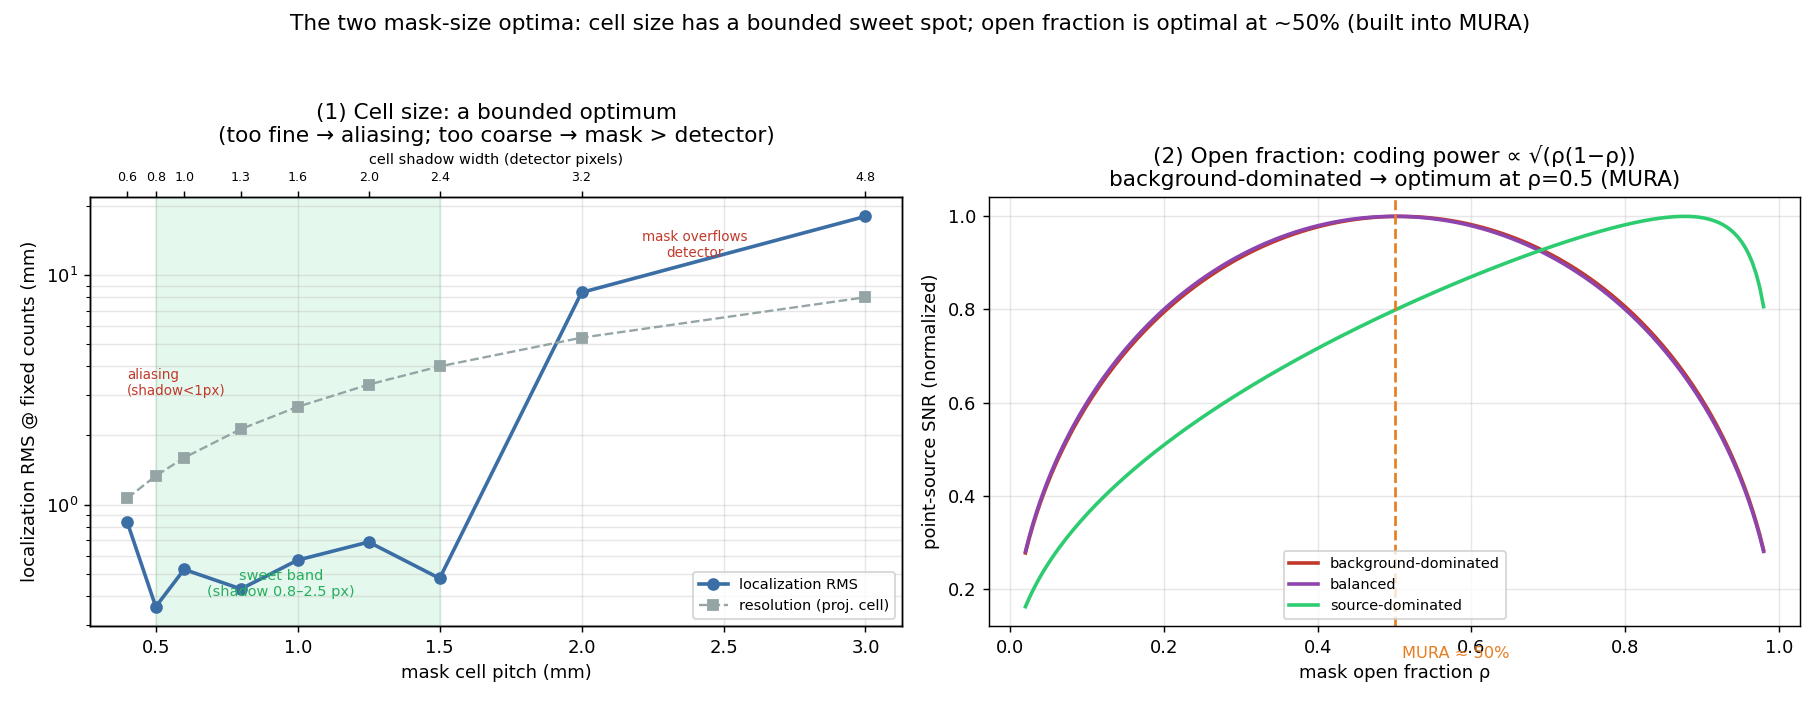
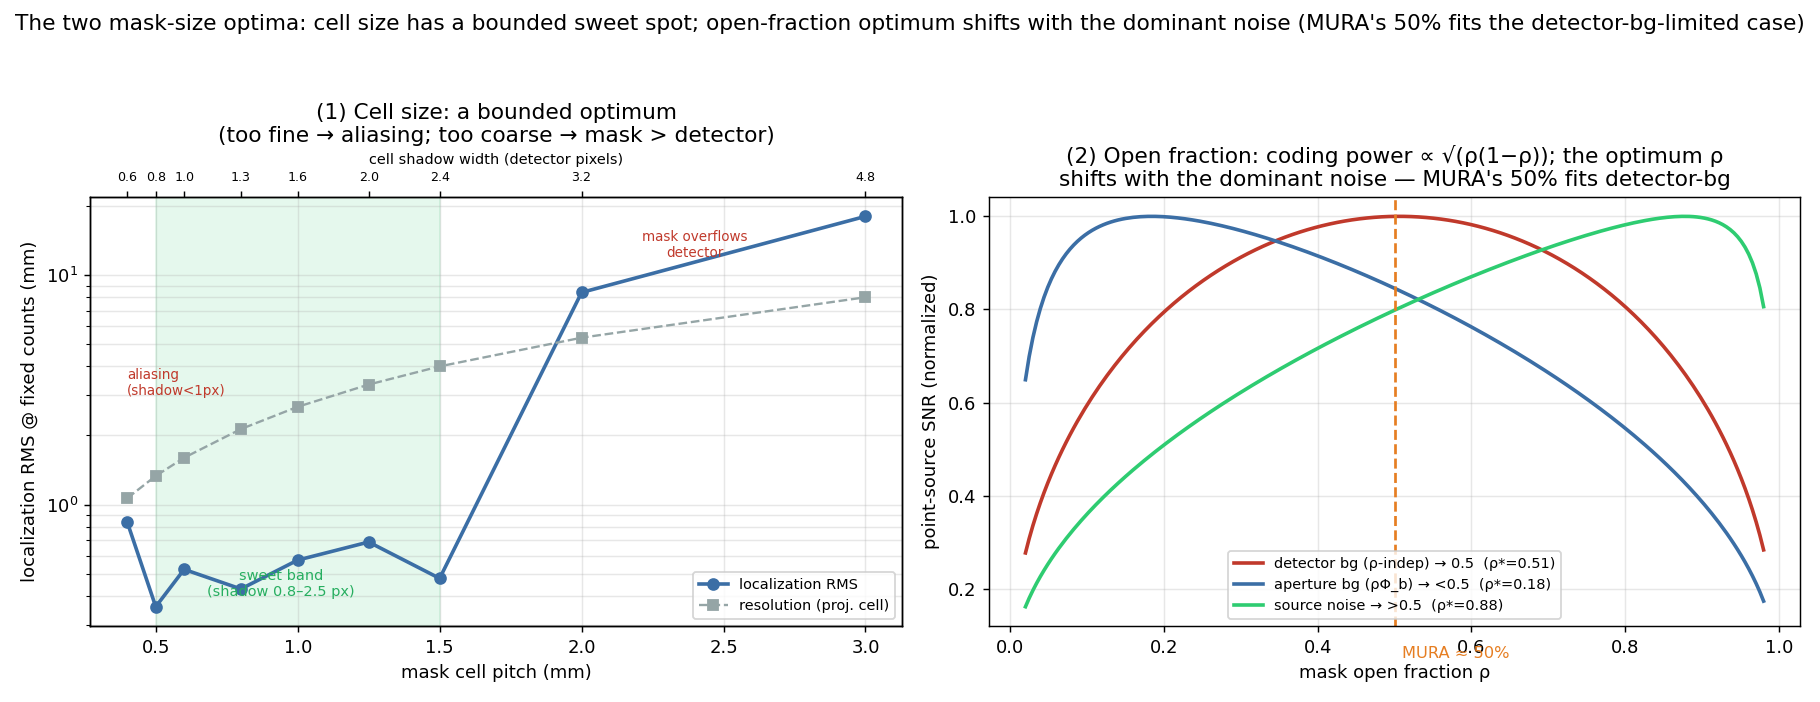
Apply Codex cross-verification fixes (depth + mask geometry)
No fatal errors; core physics verified (M=(D+S)/S & frac=D/(D+S); focused
remap scale = f/(f+PlaneZ-z); cell-size optimum). Refinements:

Depth (themes 18-19): CentroidEstimate failure fallback returns the scan
midpoint, not rows[0] (which fabricated a confident near value); softened the
focus-metric claims (raw cyclic correlation is stair-stepped, argmax biased,
centroid is a heuristic); noted the decoder scores a thin mask plane so depth
results are for the straight/full-hole/thin mask; dM/dS is a scaling intuition;
flagged the joint iteration has no convergence/multi-start guard.

Mask geometry (themes 20-21): guard focal <= thickness -> straight (denominator
blow-up); documented HoleFraction as LINEAR (open area = hf^2); softened
"strictly counterproductive" to "for this MURA/full-cell decoder"; corrected the
open-fraction optimum -- rho=0.5 only in the detector-background regime, aperture
background pushes it below 0.5 and source noise above (plot now shows all three).

24 tests green.

Claude-Session: https://claude.ai/code/session_01JzXSNQYoWEuh1nUS9rXAso

diff --git a/samples/plot_masksize.py b/samples/plot_masksize.py
@@ -40,19 +40,22 @@ axt.set_xlabel("cell shadow width (detector pixels)", fontsize=8)
 # SNR(rho) = Phi_s * sqrt(rho(1-rho)) / sqrt((1-rho)Phi_s + rho*Phi_b + B_det)
 rho = np.linspace(0.02, 0.98, 200)
 Phi_s = 1.0
-for label, Phi_b, B_det, col in [("background-dominated", 0.0, 20.0, "#c0392b"),
-                                 ("balanced", 1.0, 1.0, "#8e44ad"),
-                                 ("source-dominated", 0.0, 0.02, "#2ecc71")]:
+# SNR = Phi_s*sqrt(rho(1-rho)) / sqrt((1-rho)Phi_s + rho*Phi_b + B_det); the optimum rho depends
+# on which denominator term dominates: detector bg -> 0.5, aperture bg -> <0.5, source noise -> >0.5.
+for label, Phi_b, B_det, col in [("detector bg (ρ-indep) → 0.5", 0.0, 20.0, "#c0392b"),
+                                 ("aperture bg (ρΦ_b) → <0.5", 20.0, 0.02, "#3b6ea5"),
+                                 ("source noise → >0.5", 0.0, 0.02, "#2ecc71")]:
     snr = Phi_s * np.sqrt(rho * (1 - rho)) / np.sqrt((1 - rho) * Phi_s + rho * Phi_b + B_det)
-    ax2.plot(rho, snr / snr.max(), "-", color=col, lw=2, label=label)
+    rho_opt = rho[np.argmax(snr)]
+    ax2.plot(rho, snr / snr.max(), "-", color=col, lw=2, label=f"{label}  (ρ*={rho_opt:.2f})")
 ax2.axvline(0.5, ls="--", color="#e67e22", lw=1.5); ax2.text(0.51, 0.05, "MURA ≈ 50%", color="#e67e22", fontsize=9)
 ax2.set_xlabel("mask open fraction ρ")
 ax2.set_ylabel("point-source SNR (normalized)")
-ax2.set_title("(2) Open fraction: coding power ∝ √(ρ(1−ρ))\nbackground-dominated → optimum at ρ=0.5 (MURA)")
+ax2.set_title("(2) Open fraction: coding power ∝ √(ρ(1−ρ)); the optimum ρ\nshifts with the dominant noise — MURA's 50% fits detector-bg")
 ax2.legend(fontsize=8); ax2.grid(alpha=0.3)
 
-fig.suptitle("The two mask-size optima: cell size has a bounded sweet spot; "
-             "open fraction is optimal at ~50% (built into MURA)", fontsize=12)
+fig.suptitle("The two mask-size optima: cell size has a bounded sweet spot; open-fraction optimum "
+             "shifts with the dominant noise (MURA's 50% fits the detector-bg-limited case)", fontsize=12)
 fig.tight_layout(rect=[0, 0, 1, 0.95])
 fig.savefig(os.path.join(here, "masksize.png"), dpi=130)
 print("saved samples/masksize.png")

diff --git a/src/Genoray.MonteCarlo.Masks/CodedApertureMask.cs b/src/Genoray.MonteCarlo.Masks/CodedApertureMask.cs
@@ -15,7 +15,7 @@ public sealed class CodedApertureMask : IMask
     private readonly double _halfWidth;   // physical half-extent along x (mm)
     private readonly double _halfHeight;  // physical half-extent along y (mm)
     private readonly double _focalMm;     // channels converge toward a source at this distance (0 = straight)
-    private readonly double _holeFraction;// open fraction of a cell (1 = full cell; <1 = tungsten border)
+    private readonly double _holeFraction;// LINEAR open fraction of a cell (open AREA = _holeFraction²)
 
     public MaskPattern Pattern { get; }
     public double PlaneZ { get; }
@@ -31,7 +31,10 @@ public sealed class CodedApertureMask : IMask
         _muPerMm = muPerMm;
         _halfWidth = pattern.Width * cellPitchMm / 2.0;
         _halfHeight = pattern.Height * cellPitchMm / 2.0;
-        _focalMm = focalDistanceMm;
+        // Focused channels need the focal point outside the slab; focal <= thickness would make the
+        // per-depth remap denominator (focal + PlaneZ - z) hit zero/flip sign inside the slab. Reject
+        // that unphysical geometry by falling back to straight channels.
+        _focalMm = focalDistanceMm > thicknessMm ? focalDistanceMm : 0.0;
         _holeFraction = holeFraction <= 0.0 ? 1.0 : Math.Min(holeFraction, 1.0);
     }
 

diff --git a/src/Genoray.MonteCarlo.Configuration/SimulationConfig.cs b/src/Genoray.MonteCarlo.Configuration/SimulationConfig.cs
@@ -108,8 +108,9 @@ public sealed class MaskConfig
     /// 0 = straight (parallel) channels.</summary>
     public double FocalDistanceMm { get; set; } = 0.0;
 
-    /// <summary>Open fraction of a cell (1 = full cell open; &lt;1 leaves a tungsten border that
-    /// sharpens the shadow but lowers sensitivity).</summary>
+    /// <summary>LINEAR open fraction of a cell — the fraction of the cell's WIDTH that is drilled
+    /// (so the open AREA is HoleFraction²; e.g. 0.5 → central 25% of the cell is open). 1 = full cell
+    /// open; &lt;1 leaves a tungsten border that lowers sensitivity.</summary>
     public double HoleFraction { get; set; } = 1.0;
 }
 

diff --git a/src/Genoray.MonteCarlo.Simulation/DepthStudy.cs b/src/Genoray.MonteCarlo.Simulation/DepthStudy.cs
@@ -187,7 +187,9 @@ public sealed class DepthStudy
             double w = r.Focus - thr;
             if (w > 0.0) { num += r.AssumedSmm * w; den += w; }
         }
-        return den > 0.0 ? num / den : rows[0].AssumedSmm;
+        // Failure fallback (a flat/failed focus curve): return the scan midpoint (a neutral
+        // "no depth information" answer), NOT rows[0], which would fabricate a confident near value.
+        return den > 0.0 ? num / den : 0.5 * (rows[0].AssumedSmm + rows[^1].AssumedSmm);
     }
 
     public static string ToCsv(DepthResult[] results)

diff --git a/AGENTS.findings.md b/AGENTS.findings.md
@@ -292,17 +292,23 @@ contamination *where it actually landed*. Run: `montecarlo compton-strip samples
 The pipeline had assumed the source distance S known; it can be *recovered*. The mask-shadow
 magnification **M = (D+S)/S** depends on S, and the decoder back-projects with `frac = D/(D+S)`.
 Decoding one flood map at a range of ASSUMED S, the correlation at the (on-axis) source position is
-maximal when the assumed S matches the true S — the coding and decoding align — and falls off
-otherwise. So argmax over assumed S estimates the depth (light-field-style refocusing).
+*sharpest near* the true S — the coding and decoding align — and falls off away from it. So the
+high-focus region of the assumed-S scan estimates the depth (light-field-style refocusing).
 - **Focus metric = the single-point correlation at the known on-axis position** (a 1-cell recon grid),
   which avoids the candidate-position aliasing and grid-scale artifacts that fooled a naive
-  peak-height or peak/RMS over a full grid. **Estimate = the centroid of the high-focus region** (the
-  curve develops a flat top over the band of unresolvable distances; its width IS the depth resolution
-  and its centre is the estimate — a bare argmax snaps to the plateau's leading edge).
+  peak-height or peak/RMS over a full grid. It is *not* fully artifact-free, though — it is a raw,
+  unnormalised cyclic MURA correlation sampled at integer mask cells, so the curve is stair-stepped and
+  its bare argmax is biased (e.g. true S=40 peaks at ~35). **Estimate = the centroid of the high-focus
+  region** (a heuristic: the curve develops a flat top over the band of unresolvable distances; its
+  width IS the depth resolution and its centre is a more robust estimate than the argmax, which snaps
+  to the plateau's leading edge). Decoder caveat: the decoder scores against a single thin mask plane,
+  so these results are for the straight, full-hole, thin mask — a focused/thick/hole mask would need
+  the decoder to model the channel.
 - **Near field accurate, far field degrades** (`depth_estimation.png`): S 40→39, 60→60, 100→97,
   150→140, 200→214 mm (error grows −1→+14 mm), and the focus-curve width (depth resolution) grows from
-  ~50 mm at S=40 to ~240 mm at S≥150. This is the intrinsic limit: sensitivity ∝ dM/dS = −D/S², so a
-  near source resolves depth while a far one (M→1, near-parallel shadow) cannot.
+  ~50 mm at S=40 to ~240 mm at S≥150. The **scaling intuition** is dM/dS = −D/S² (a near source's
+  magnification changes fast with distance, a far one's barely) — the actual resolution also depends on
+  cell pitch, detector footprint, sampling, and statistics.
 - Caveat: measured on the high-statistics mean flood map (bias-limited); with Poisson noise the broad
   far-field focus curve makes the far depth much noisier — the plotted error bar is that resolution.
 - Reproduce: `montecarlo depth samples/scenario.json` → `samples/depth_estimation.png`, `depth.csv`
@@ -322,17 +328,23 @@ assumption. Run: `montecarlo depth-joint samples/scenario.json` → `samples/dep
   lateral estimate feeds the sensitive near-field depth focus, so lateral uncertainty leaks into z.
 - Takeaway: report lateral (x,y) with confidence at any distance; treat z as a near-field-only
   estimate whose error grows with distance and with lateral uncertainty.
+- Method caveat: the joint estimator is a *simple 3-step alternating iteration* (decode lateral →
+  centroid depth → repeat) from one nominal S, with no convergence check, damping, or multi-start — it
+  can trap (a wrong assumed S rescales the lateral solution; cyclic decode can pick an alias branch).
+  This is why the on-axis cases use the direct depth-at-(0,0) method (RunNoisyDepth), not the joint.
 - Reproduce: `montecarlo depth-joint samples/scenario.json` → `samples/depth_joint.png`,
   `depth_joint.csv` (plot via `plot_depth_joint.py`). Locked in by `DepthTests`.
 
 ## 20. Mask channel geometry — hole size and focused (converging) channels — `MaskGeometryStudy`
 `CodedApertureMask` now models two channel-geometry knobs (`Mask.HoleFraction`, `Mask.FocalDistanceMm`).
 Run: `montecarlo maskgeo samples/scenario.json` → `samples/maskgeo.png`.
-- **Shrinking the hole below the cell is strictly counterproductive for a coded aperture** — it loses
-  BOTH sensitivity and resolution (efficiency 2.5e-4→0.9e-4, RMS 0.57→7.65 mm as hole 1.0→0.3). The
-  single-pinhole intuition (smaller hole = sharper) does NOT transfer: coded-aperture resolution is set
-  by the cell pitch, so shrinking the hole only dilutes the open/closed pattern contrast and throws
-  away signal. Full-open cells are optimal.
+- **Shrinking the hole below the cell only hurts, for this MURA / full-cell decoder** — it loses BOTH
+  sensitivity and localization (efficiency 2.5e-4→0.9e-4, RMS 0.57→7.65 mm as the *linear* hole fraction
+  goes 1.0→0.3; note the open AREA is HoleFraction², so 0.3 linear ≈ 9 % open area). The single-pinhole
+  intuition (smaller hole = sharper) does NOT transfer: this decoder is matched to full open cells and
+  the coded resolution is set by the cell pitch, so a smaller hole just dilutes the open/closed contrast
+  and throws away signal. Full-open cells are optimal for this design (not a universal statement about
+  intra-cell aperture / MTF).
 - **Focused (converging) channels are a focal-POINT concentrator, not a uniform gain.** Angling the
   channels to converge on a point at the focal distance (on-axis) removes the off-axis open-channel
   collimation *there*: at a 25 mm mask it gives **+35 % efficiency at the focal point**. But it is
@@ -359,12 +371,14 @@ optimum, unlike the sub-cell hole (theme 20, no interior optimum). Run: `monteca
   sampled → **collapse** (RMS 8–18 mm at 2–3 mm pitch). So "finer is always better" is wrong: the
   feature size is bounded by Nyquist below and the detector footprint above. Optimum ≈ shadow matches
   the detector pixel (≈ theme 7 from the mask side).
-- **Open fraction is optimal at ~50 %, built into MURA.** The mask's coding power scales as
-  **√(ρ(1−ρ))**, so the point-source SNR in the background-dominated regime (what coded apertures are
-  *for*) is maximised at **ρ = 0.5** — exactly where a MURA sits by construction (analytical SNR
-  `Φ_s·√(ρ(1−ρ)) / √((1−ρ)Φ_s + ρΦ_b + B_det)`). It is not a free knob: tuning ρ away from 0.5 needs a
-  random array, which is strictly worse (non-zero sidelobes). Only a source-dominated field (rare here)
-  prefers a higher ρ (less coding needed).
+- **Open fraction — ~50 % is optimal in the detector-background-limited regime, and MURA sits there.**
+  The mask's coding power scales as **√(ρ(1−ρ))** (peaks at 0.5); the full analytical SNR is
+  `Φ_s·√(ρ(1−ρ)) / √((1−ρ)Φ_s + ρΦ_b + B_det)`, so the optimum ρ depends on which noise term dominates
+  the denominator: **detector background B_det (ρ-independent) → ρ_opt = 0.5** (a MURA); **aperture-
+  transmitted background ρΦ_b → ρ_opt < 0.5** (a more closed mask admits less sky); **source counting
+  noise (1−ρ)Φ_s → ρ_opt > 0.5** (less coding needed). MURA's 50 % is optimal for the detector-limited
+  case and near-optimal when Φ_b ≈ Φ_s. It is not a free knob anyway: tuning ρ needs a random array,
+  which is worse (non-zero sidelobes).
 - Verdict: the "size" worth tuning is the **cell pitch** (bounded optimum, shadow ≈ 1–2 px); the open
   fraction is already at its optimum in MURA, and the sub-cell hole (theme 20) should stay full-open.
 - Reproduce: `montecarlo masksize samples/scenario.json` → `samples/masksize.png`, `masksize.csv`
